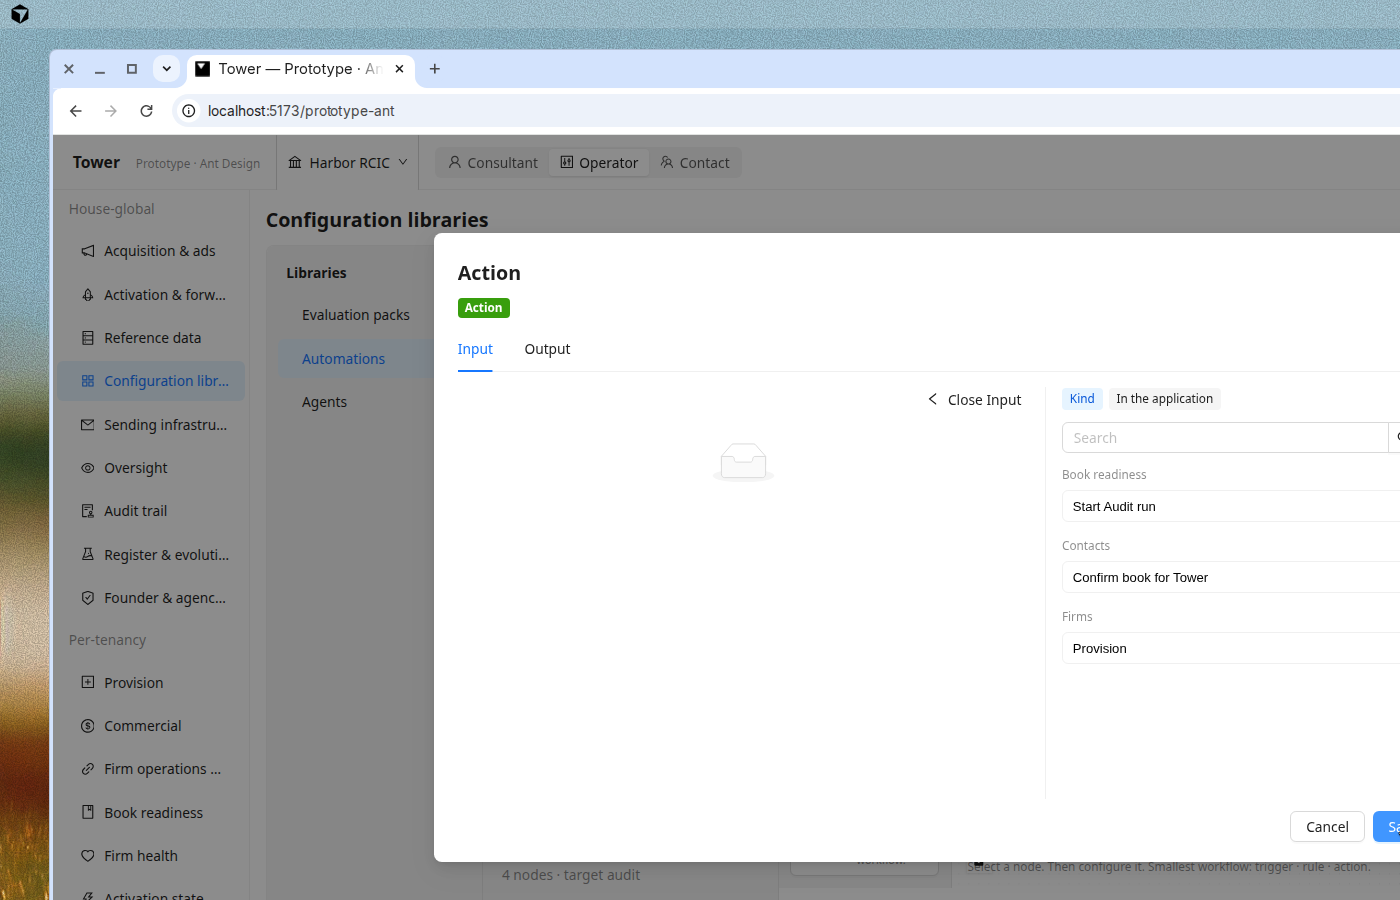
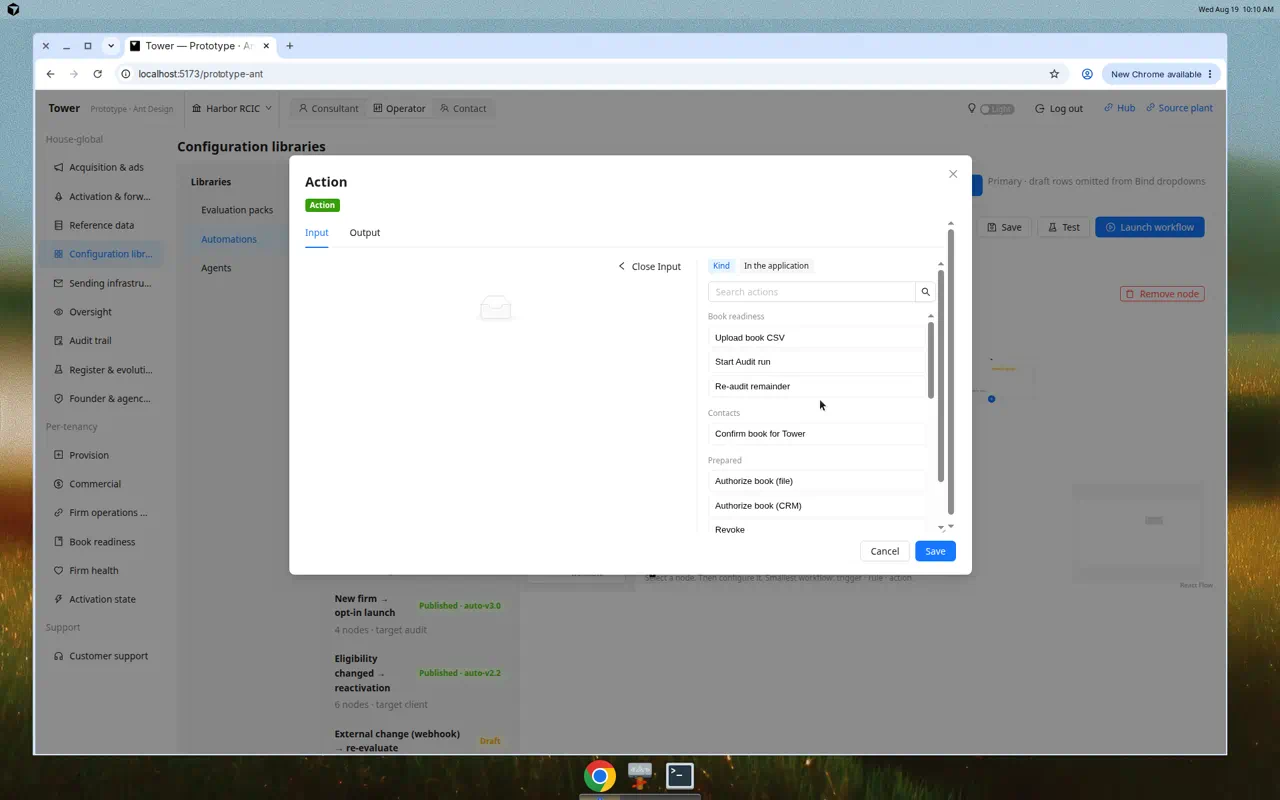
Screenshot the persist-bound in-app Action inventory
02 is the grouped list (A33), not three rows. Kind, Start Audit, Confirm book,
Provision, Output, and Close Input recaptured on live /prototype-ant.

diff --git a/docs/register/automations-blueprint/in-app-action-pass/README.md b/docs/register/automations-blueprint/in-app-action-pass/README.md
@@ -3,7 +3,7 @@
 Distinct screens from click Action → in the application. No teaching banners.
 
 - `01-kind.png` — Kind: Agents | In the application
-- `02-in-app-by-module.png` — write-buttons grouped by module
+- `02-in-app-by-module.png` — persist-bound write-buttons grouped by module (A33)
 - `03-book-readiness-start-audit.png` — Start Audit run · Book mapped slot
 - `04-contacts-confirm-book.png` — Confirm book for Tower · Filename
 - `05-firms-provision.png` — Provision · name / website / email
